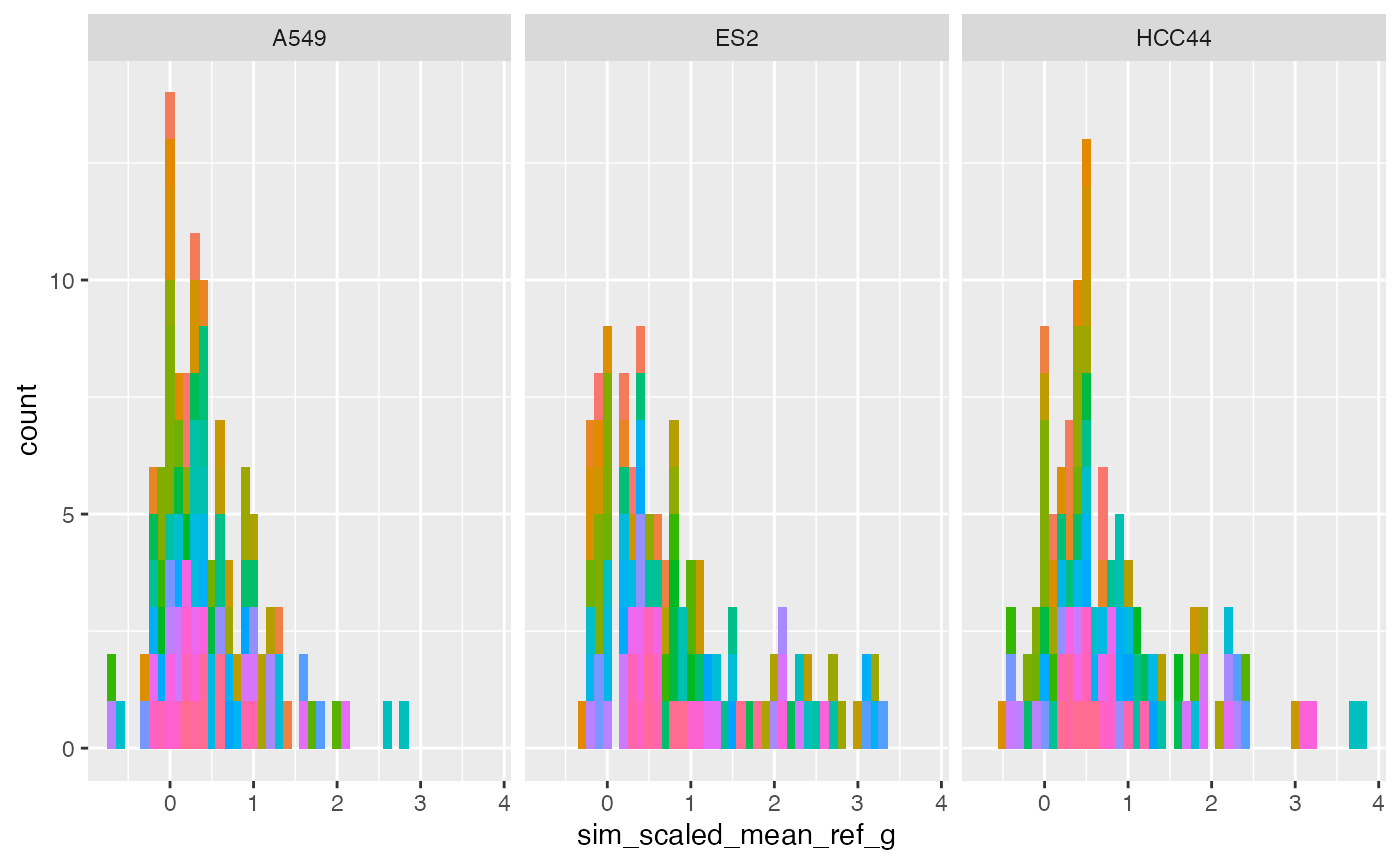
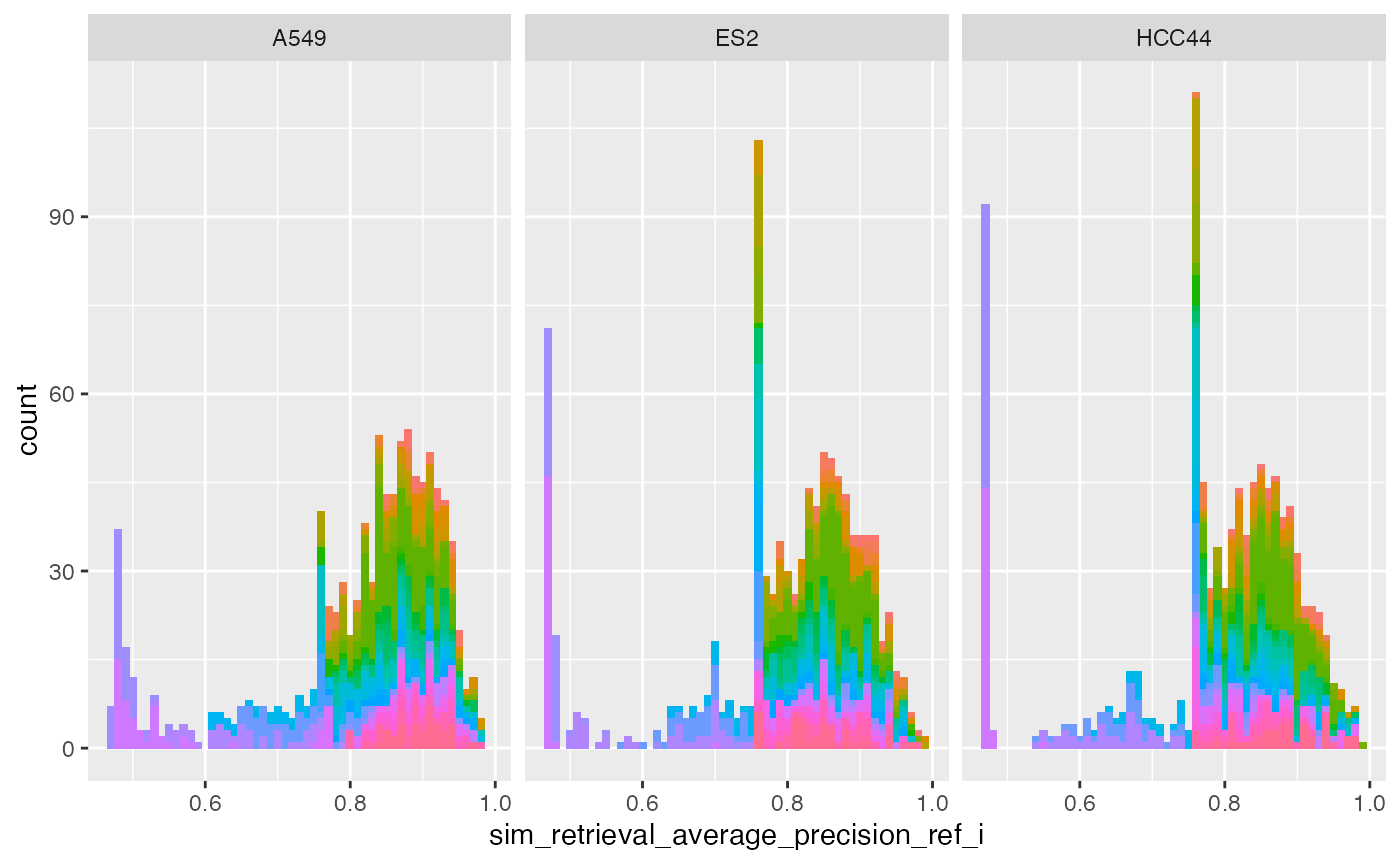
Built site for matric: 0.1.0@0c2fbc7

diff --git a/reference/sim_metrics_helper.html b/reference/sim_metrics_helper.html
@@ -1,0 +1,189 @@
+<!-- Generated by pkgdown: do not edit by hand -->
+<!DOCTYPE html>
+<html lang="en">
+  <head>
+  <meta charset="utf-8">
+<meta http-equiv="X-UA-Compatible" content="IE=edge">
+<meta name="viewport" content="width=device-width, initial-scale=1.0">
+
+<title>Helper function to compute metrics. — sim_metrics_helper • matric</title>
+
+
+<!-- jquery -->
+<script src="https://cdnjs.cloudflare.com/ajax/libs/jquery/3.4.1/jquery.min.js" integrity="sha256-CSXorXvZcTkaix6Yvo6HppcZGetbYMGWSFlBw8HfCJo=" crossorigin="anonymous"></script>
+<!-- Bootstrap -->
+
+<link rel="stylesheet" href="https://cdnjs.cloudflare.com/ajax/libs/twitter-bootstrap/3.4.1/css/bootstrap.min.css" integrity="sha256-bZLfwXAP04zRMK2BjiO8iu9pf4FbLqX6zitd+tIvLhE=" crossorigin="anonymous" />
+
+<script src="https://cdnjs.cloudflare.com/ajax/libs/twitter-bootstrap/3.4.1/js/bootstrap.min.js" integrity="sha256-nuL8/2cJ5NDSSwnKD8VqreErSWHtnEP9E7AySL+1ev4=" crossorigin="anonymous"></script>
+
+<!-- bootstrap-toc -->
+<link rel="stylesheet" href="../bootstrap-toc.css">
+<script src="../bootstrap-toc.js"></script>
+
+<!-- Font Awesome icons -->
+<link rel="stylesheet" href="https://cdnjs.cloudflare.com/ajax/libs/font-awesome/5.12.1/css/all.min.css" integrity="sha256-mmgLkCYLUQbXn0B1SRqzHar6dCnv9oZFPEC1g1cwlkk=" crossorigin="anonymous" />
+<link rel="stylesheet" href="https://cdnjs.cloudflare.com/ajax/libs/font-awesome/5.12.1/css/v4-shims.min.css" integrity="sha256-wZjR52fzng1pJHwx4aV2AO3yyTOXrcDW7jBpJtTwVxw=" crossorigin="anonymous" />
+
+<!-- clipboard.js -->
+<script src="https://cdnjs.cloudflare.com/ajax/libs/clipboard.js/2.0.6/clipboard.min.js" integrity="sha256-inc5kl9MA1hkeYUt+EC3BhlIgyp/2jDIyBLS6k3UxPI=" crossorigin="anonymous"></script>
+
+<!-- headroom.js -->
+<script src="https://cdnjs.cloudflare.com/ajax/libs/headroom/0.11.0/headroom.min.js" integrity="sha256-AsUX4SJE1+yuDu5+mAVzJbuYNPHj/WroHuZ8Ir/CkE0=" crossorigin="anonymous"></script>
+<script src="https://cdnjs.cloudflare.com/ajax/libs/headroom/0.11.0/jQuery.headroom.min.js" integrity="sha256-ZX/yNShbjqsohH1k95liqY9Gd8uOiE1S4vZc+9KQ1K4=" crossorigin="anonymous"></script>
+
+<!-- pkgdown -->
+<link href="../pkgdown.css" rel="stylesheet">
+<script src="../pkgdown.js"></script>
+
+
+
+
+<meta property="og:title" content="Helper function to compute metrics. — sim_metrics_helper" />
+<meta property="og:description" content="sim_metrics_helper helps compute metrics by agrregating and
+scaling." />
+
+
+
+
+<!-- mathjax -->
+<script src="https://cdnjs.cloudflare.com/ajax/libs/mathjax/2.7.5/MathJax.js" integrity="sha256-nvJJv9wWKEm88qvoQl9ekL2J+k/RWIsaSScxxlsrv8k=" crossorigin="anonymous"></script>
+<script src="https://cdnjs.cloudflare.com/ajax/libs/mathjax/2.7.5/config/TeX-AMS-MML_HTMLorMML.js" integrity="sha256-84DKXVJXs0/F8OTMzX4UR909+jtl4G7SPypPavF+GfA=" crossorigin="anonymous"></script>
+
+<!--[if lt IE 9]>
+<script src="https://oss.maxcdn.com/html5shiv/3.7.3/html5shiv.min.js"></script>
+<script src="https://oss.maxcdn.com/respond/1.4.2/respond.min.js"></script>
+<![endif]-->
+
+
+
+  </head>
+
+  <body data-spy="scroll" data-target="#toc">
+    <div class="container template-reference-topic">
+      <header>
+      <div class="navbar navbar-default navbar-fixed-top" role="navigation">
+  <div class="container">
+    <div class="navbar-header">
+      <button type="button" class="navbar-toggle collapsed" data-toggle="collapse" data-target="#navbar" aria-expanded="false">
+        <span class="sr-only">Toggle navigation</span>
+        <span class="icon-bar"></span>
+        <span class="icon-bar"></span>
+        <span class="icon-bar"></span>
+      </button>
+      <span class="navbar-brand">
+        <a class="navbar-link" href="../index.html">matric</a>
+        <span class="version label label-default" data-toggle="tooltip" data-placement="bottom" title="Released version">0.1.0</span>
+      </span>
+    </div>
+
+    <div id="navbar" class="navbar-collapse collapse">
+      <ul class="nav navbar-nav">
+        <li>
+  <a href="../index.html">
+    <span class="fas fa-home fa-lg"></span>
+     
+  </a>
+</li>
+<li>
+  <a href="../articles/matric.html">Get started</a>
+</li>
+<li>
+  <a href="../reference/index.html">Reference</a>
+</li>
+      </ul>
+      <ul class="nav navbar-nav navbar-right">
+        <li>
+  <a href="https://github.com/shntnu/matric/">
+    <span class="fab fa-github fa-lg"></span>
+     
+  </a>
+</li>
+      </ul>
+      
+    </div><!--/.nav-collapse -->
+  </div><!--/.container -->
+</div><!--/.navbar -->
+
+      
+
+      </header>
+
+<div class="row">
+  <div class="col-md-9 contents">
+    <div class="page-header">
+    <h1>Helper function to compute metrics.</h1>
+    <small class="dont-index">Source: <a href='https://github.com/shntnu/matric/blob/master/R/sim_metrics.R'><code>R/sim_metrics.R</code></a></small>
+    <div class="hidden name"><code>sim_metrics_helper.Rd</code></div>
+    </div>
+
+    <div class="ref-description">
+    <p><code>sim_metrics_helper</code> helps compute metrics by agrregating and
+scaling.</p>
+    </div>
+
+    <pre class="usage"><span class='fu'>sim_metrics_helper</span><span class='op'>(</span>
+  <span class='va'>collated_sim</span>,
+  <span class='va'>sim_type_background</span>,
+  <span class='va'>summary_cols</span>,
+  <span class='va'>sim_type_replication</span>,
+  identifier <span class='op'>=</span> <span class='cn'>NULL</span>
+<span class='op'>)</span></pre>
+
+    <h2 class="hasAnchor" id="arguments"><a class="anchor" href="#arguments"></a>Arguments</h2>
+    <table class="ref-arguments">
+    <colgroup><col class="name" /><col class="desc" /></colgroup>
+    <tr>
+      <th>collated_sim</th>
+      <td><p>output of <code>sim_collated</code>, which is a data.frame with some attributes.</p></td>
+    </tr>
+    <tr>
+      <th>sim_type_background</th>
+      <td><p>character string specifying the background distributions for computing scaled metrics. This must be one of the strings <code>"non_rep"</code> or <code>"ref"</code>.</p></td>
+    </tr>
+    <tr>
+      <th>summary_cols</th>
+      <td><p>character list specifying columns by which to group similarities.</p></td>
+    </tr>
+    <tr>
+      <th>sim_type_replication</th>
+      <td><p>character string specifying the type of replication being measured. This must be one of the strings <code>"rep"</code> or <code>"rep_group"</code>.</p></td>
+    </tr>
+    <tr>
+      <th>identifier</th>
+      <td><p>character string specifying the identifier to add as a suffix to the columns containing scaled-aggregated metrics.</p></td>
+    </tr>
+    </table>
+
+    <h2 class="hasAnchor" id="value"><a class="anchor" href="#value"></a>Value</h2>
+
+    <p>data.frame of metrics.</p>
+
+  </div>
+  <div class="col-md-3 hidden-xs hidden-sm" id="pkgdown-sidebar">
+    <nav id="toc" data-toggle="toc" class="sticky-top">
+      <h2 data-toc-skip>Contents</h2>
+    </nav>
+  </div>
+</div>
+
+
+      <footer>
+      <div class="copyright">
+  <p>Developed by Shantanu Singh, Gregory Way.</p>
+</div>
+
+<div class="pkgdown">
+  <p>Site built with <a href="https://pkgdown.r-lib.org/">pkgdown</a> 1.6.1.</p>
+</div>
+
+      </footer>
+   </div>
+
+  
+
+
+  </body>
+</html>
+
+

diff --git a/articles/matric.html b/articles/matric.html
@@ -232,17 +232,31 @@
   <span class="fu"><a href="https://ggplot2.tidyverse.org/reference/facet_wrap.html">facet_wrap</a></span><span class="op">(</span> <span class="op">~</span> <span class="va">Metadata_cell_line</span><span class="op">)</span> <span class="op">+</span>
   <span class="fu"><a href="https://ggplot2.tidyverse.org/reference/theme.html">theme</a></span><span class="op">(</span>legend.position<span class="op">=</span><span class="st">"none"</span><span class="op">)</span></code></pre></div>
 <p><img src="matric_files/figure-html/unnamed-chunk-10-1.png" width="700"></p>
+<div class="sourceCode" id="cb11"><pre class="downlit sourceCode r">
+<code class="sourceCode R"><span class="fu"><a href="https://ggplot2.tidyverse.org/reference/ggplot.html">ggplot</a></span><span class="op">(</span><span class="va">cellhealthmetrics</span><span class="op">$</span><span class="va">level_1_0</span>,
+       <span class="fu"><a href="https://ggplot2.tidyverse.org/reference/aes.html">aes</a></span><span class="op">(</span><span class="va">sim_retrieval_average_precision_ref_i</span>, fill <span class="op">=</span> <span class="va">Metadata_gene_name</span><span class="op">)</span><span class="op">)</span> <span class="op">+</span>
+  <span class="fu"><a href="https://ggplot2.tidyverse.org/reference/geom_histogram.html">geom_histogram</a></span><span class="op">(</span>binwidth <span class="op">=</span> <span class="fl">.01</span><span class="op">)</span> <span class="op">+</span>
+  <span class="fu"><a href="https://ggplot2.tidyverse.org/reference/facet_wrap.html">facet_wrap</a></span><span class="op">(</span> <span class="op">~</span> <span class="va">Metadata_cell_line</span><span class="op">)</span> <span class="op">+</span>
+  <span class="fu"><a href="https://ggplot2.tidyverse.org/reference/theme.html">theme</a></span><span class="op">(</span>legend.position<span class="op">=</span><span class="st">"none"</span><span class="op">)</span></code></pre></div>
+<p><img src="matric_files/figure-html/unnamed-chunk-11-1.png" width="700"></p>
 </div>
 <div id="per-group-level-2-1" class="section level2">
 <h2 class="hasAnchor">
 <a href="#per-group-level-2-1" class="anchor"></a>Per group (Level 2)</h2>
-<div class="sourceCode" id="cb11"><pre class="downlit sourceCode r">
+<div class="sourceCode" id="cb12"><pre class="downlit sourceCode r">
 <code class="sourceCode R"><span class="fu"><a href="https://ggplot2.tidyverse.org/reference/ggplot.html">ggplot</a></span><span class="op">(</span><span class="va">cellhealthmetrics</span><span class="op">$</span><span class="va">level_2_1</span>,
        <span class="fu"><a href="https://ggplot2.tidyverse.org/reference/aes.html">aes</a></span><span class="op">(</span><span class="va">sim_scaled_mean_ref_g</span>, fill <span class="op">=</span> <span class="va">Metadata_gene_name</span><span class="op">)</span><span class="op">)</span> <span class="op">+</span>
   <span class="fu"><a href="https://ggplot2.tidyverse.org/reference/geom_histogram.html">geom_histogram</a></span><span class="op">(</span>binwidth <span class="op">=</span> <span class="fl">.1</span><span class="op">)</span> <span class="op">+</span>
   <span class="fu"><a href="https://ggplot2.tidyverse.org/reference/facet_wrap.html">facet_wrap</a></span><span class="op">(</span> <span class="op">~</span> <span class="va">Metadata_cell_line</span><span class="op">)</span> <span class="op">+</span>
   <span class="fu"><a href="https://ggplot2.tidyverse.org/reference/theme.html">theme</a></span><span class="op">(</span>legend.position<span class="op">=</span><span class="st">"none"</span><span class="op">)</span></code></pre></div>
-<p><img src="matric_files/figure-html/unnamed-chunk-11-1.png" width="700"></p>
+<p><img src="matric_files/figure-html/unnamed-chunk-12-1.png" width="700"></p>
+<div class="sourceCode" id="cb13"><pre class="downlit sourceCode r">
+<code class="sourceCode R"><span class="fu"><a href="https://ggplot2.tidyverse.org/reference/ggplot.html">ggplot</a></span><span class="op">(</span><span class="va">cellhealthmetrics</span><span class="op">$</span><span class="va">level_2_1</span>,
+       <span class="fu"><a href="https://ggplot2.tidyverse.org/reference/aes.html">aes</a></span><span class="op">(</span><span class="va">sim_retrieval_average_precision_ref_g</span>, fill <span class="op">=</span> <span class="va">Metadata_gene_name</span><span class="op">)</span><span class="op">)</span> <span class="op">+</span>
+  <span class="fu"><a href="https://ggplot2.tidyverse.org/reference/geom_histogram.html">geom_histogram</a></span><span class="op">(</span>binwidth <span class="op">=</span> <span class="fl">.02</span><span class="op">)</span> <span class="op">+</span>
+  <span class="fu"><a href="https://ggplot2.tidyverse.org/reference/facet_wrap.html">facet_wrap</a></span><span class="op">(</span> <span class="op">~</span> <span class="va">Metadata_cell_line</span><span class="op">)</span> <span class="op">+</span>
+  <span class="fu"><a href="https://ggplot2.tidyverse.org/reference/theme.html">theme</a></span><span class="op">(</span>legend.position<span class="op">=</span><span class="st">"none"</span><span class="op">)</span></code></pre></div>
+<p><img src="matric_files/figure-html/unnamed-chunk-13-1.png" width="700"></p>
 </div>
 </div>
   </div>

diff --git a/reference/sim_write.html b/reference/sim_write.html
@@ -156,10 +156,10 @@ attributes are saved as separate files.</p>
 <span class='op'>)</span>
 <span class='va'>sim_df</span> <span class='op'>&lt;-</span> <span class='fu'>matric</span><span class='fu'>::</span><span class='fu'><a href='sim_calculate.html'>sim_calculate</a></span><span class='op'>(</span><span class='va'>population</span>, method <span class='op'>=</span> <span class='st'>"pearson"</span><span class='op'>)</span>
 <span class='va'>sim_df</span> <span class='op'>%&gt;%</span> <span class='fu'>matric</span><span class='fu'>::</span><span class='fu'>sim_write</span><span class='op'>(</span><span class='st'>"/tmp/test"</span>, file_format <span class='op'>=</span> <span class='st'>"csv"</span><span class='op'>)</span>
-</div><div class='output co'>#&gt; INFO [2021-08-27 12:11:00] Creating /tmp/test ...
-#&gt; INFO [2021-08-27 12:11:00] Writing /tmp/test/test.csv ...
-#&gt; INFO [2021-08-27 12:11:00] Writing /tmp/test/test_metadata.csv ...
-#&gt; INFO [2021-08-27 12:11:00] Writing /tmp/test/test_metadata.json ...</div><div class='output co'>#&gt; NULL</div><div class='input'><span class='fu'>readr</span><span class='fu'>::</span><span class='fu'><a href='https://readr.tidyverse.org/reference/read_delim.html'>read_csv</a></span><span class='op'>(</span><span class='st'>"/tmp/test/test.csv"</span><span class='op'>)</span>
+</div><div class='output co'>#&gt; INFO [2021-08-28 23:51:38] Creating /tmp/test ...
+#&gt; INFO [2021-08-28 23:51:38] Writing /tmp/test/test.csv ...
+#&gt; INFO [2021-08-28 23:51:38] Writing /tmp/test/test_metadata.csv ...
+#&gt; INFO [2021-08-28 23:51:38] Writing /tmp/test/test_metadata.json ...</div><div class='output co'>#&gt; NULL</div><div class='input'><span class='fu'>readr</span><span class='fu'>::</span><span class='fu'><a href='https://readr.tidyverse.org/reference/read_delim.html'>read_csv</a></span><span class='op'>(</span><span class='st'>"/tmp/test/test.csv"</span><span class='op'>)</span>
 </div><div class='output co'>#&gt; <span class='message'><span style='font-weight: bold;'>Rows: </span><span style='color: #0000BB;'>12</span> <span style='font-weight: bold;'>Columns: </span><span style='color: #0000BB;'>3</span></span></div><div class='output co'>#&gt; <span class='message'><span style='color: #00BBBB;'>──</span> <span style='font-weight: bold;'>Column specification</span> <span style='color: #00BBBB;'>────────────────────────────────────────────────────────</span></span>
 #&gt; <span class='message'><span style='font-weight: bold;'>Delimiter:</span> ","</span>
 #&gt; <span class='message'><span style='color: #00BB00;'>dbl</span> (3): id1, id2, sim</span></div><div class='output co'>#&gt; <span class='message'></span>
@@ -196,7 +196,7 @@ attributes are saved as separate files.</p>
 #&gt; [1] "pearson"
 #&gt; 
 #&gt; </div><div class='input'><span class='va'>sim_df</span> <span class='op'>%&gt;%</span> <span class='fu'>matric</span><span class='fu'>::</span><span class='fu'>sim_write</span><span class='op'>(</span><span class='st'>"/tmp/test.parquet"</span><span class='op'>)</span>
-</div><div class='output co'>#&gt; INFO [2021-08-27 12:11:01] Writing /tmp/test.parquet ...</div><div class='output co'>#&gt; NULL</div><div class='input'><span class='va'>sim_df_in</span> <span class='op'>&lt;-</span> <span class='fu'>arrow</span><span class='fu'>::</span><span class='fu'><a href='https://arrow.apache.org/docs/r//reference/read_parquet.html'>read_parquet</a></span><span class='op'>(</span><span class='st'>"/tmp/test.parquet"</span><span class='op'>)</span>
+</div><div class='output co'>#&gt; INFO [2021-08-28 23:51:38] Writing /tmp/test.parquet ...</div><div class='output co'>#&gt; NULL</div><div class='input'><span class='va'>sim_df_in</span> <span class='op'>&lt;-</span> <span class='fu'>arrow</span><span class='fu'>::</span><span class='fu'><a href='https://arrow.apache.org/docs/r//reference/read_parquet.html'>read_parquet</a></span><span class='op'>(</span><span class='st'>"/tmp/test.parquet"</span><span class='op'>)</span>
 <span class='fu'><a href='https://rdrr.io/r/base/attr.html'>attr</a></span><span class='op'>(</span><span class='va'>sim_df_in</span>, <span class='st'>"row_metadata"</span><span class='op'>)</span>
 </div><div class='output co'>#&gt; <span style='color: #949494;'># A tibble: 4 × 2</span>
 #&gt;      id Metadata_group

diff --git a/reference/sim_read.html b/reference/sim_read.html
@@ -149,14 +149,14 @@
 <span class='op'>)</span>
 <span class='va'>sim_df</span> <span class='op'>&lt;-</span> <span class='fu'><a href='sim_calculate.html'>sim_calculate</a></span><span class='op'>(</span><span class='va'>population</span>, method <span class='op'>=</span> <span class='st'>"pearson"</span><span class='op'>)</span>
 <span class='va'>sim_df</span> <span class='op'>%&gt;%</span> <span class='fu'><a href='sim_write.html'>sim_write</a></span><span class='op'>(</span><span class='st'>"/tmp/test"</span>, file_format <span class='op'>=</span> <span class='st'>"csv"</span><span class='op'>)</span>
-</div><div class='output co'>#&gt; INFO [2021-08-27 12:10:57] Creating /tmp/test ...
-#&gt; INFO [2021-08-27 12:10:57] Writing /tmp/test/test.csv ...
-#&gt; INFO [2021-08-27 12:10:58] Writing /tmp/test/test_metadata.csv ...
-#&gt; INFO [2021-08-27 12:10:58] Writing /tmp/test/test_metadata.json ...</div><div class='output co'>#&gt; NULL</div><div class='input'><span class='va'>sim_df_csv</span> <span class='op'>&lt;-</span> <span class='fu'>sim_read</span><span class='op'>(</span><span class='st'>"/tmp/test"</span>, file_format <span class='op'>=</span> <span class='st'>"csv"</span><span class='op'>)</span>
-</div><div class='output co'>#&gt; INFO [2021-08-27 12:10:58] Reading /tmp/test/test.csv ...
-#&gt; INFO [2021-08-27 12:10:58] Reading /tmp/test/test_metadata.csv ...
-#&gt; INFO [2021-08-27 12:10:58] Reading /tmp/test/test_metadata.json ...</div><div class='input'><span class='va'>sim_df</span> <span class='op'>%&gt;%</span> <span class='fu'><a href='sim_write.html'>sim_write</a></span><span class='op'>(</span><span class='st'>"/tmp/test.parquet"</span><span class='op'>)</span>
-</div><div class='output co'>#&gt; INFO [2021-08-27 12:10:58] Writing /tmp/test.parquet ...</div><div class='output co'>#&gt; NULL</div><div class='input'><span class='va'>sim_df_parquet1</span> <span class='op'>&lt;-</span> <span class='fu'>sim_read</span><span class='op'>(</span><span class='st'>"/tmp/test.parquet"</span><span class='op'>)</span>
+</div><div class='output co'>#&gt; INFO [2021-08-28 23:51:35] Creating /tmp/test ...
+#&gt; INFO [2021-08-28 23:51:35] Writing /tmp/test/test.csv ...
+#&gt; INFO [2021-08-28 23:51:36] Writing /tmp/test/test_metadata.csv ...
+#&gt; INFO [2021-08-28 23:51:36] Writing /tmp/test/test_metadata.json ...</div><div class='output co'>#&gt; NULL</div><div class='input'><span class='va'>sim_df_csv</span> <span class='op'>&lt;-</span> <span class='fu'>sim_read</span><span class='op'>(</span><span class='st'>"/tmp/test"</span>, file_format <span class='op'>=</span> <span class='st'>"csv"</span><span class='op'>)</span>
+</div><div class='output co'>#&gt; INFO [2021-08-28 23:51:36] Reading /tmp/test/test.csv ...
+#&gt; INFO [2021-08-28 23:51:36] Reading /tmp/test/test_metadata.csv ...
+#&gt; INFO [2021-08-28 23:51:36] Reading /tmp/test/test_metadata.json ...</div><div class='input'><span class='va'>sim_df</span> <span class='op'>%&gt;%</span> <span class='fu'><a href='sim_write.html'>sim_write</a></span><span class='op'>(</span><span class='st'>"/tmp/test.parquet"</span><span class='op'>)</span>
+</div><div class='output co'>#&gt; INFO [2021-08-28 23:51:36] Writing /tmp/test.parquet ...</div><div class='output co'>#&gt; NULL</div><div class='input'><span class='va'>sim_df_parquet1</span> <span class='op'>&lt;-</span> <span class='fu'>sim_read</span><span class='op'>(</span><span class='st'>"/tmp/test.parquet"</span><span class='op'>)</span>
 <span class='va'>sim_df</span> <span class='op'>%&gt;%</span> <span class='fu'>arrow</span><span class='fu'>::</span><span class='fu'><a href='https://arrow.apache.org/docs/r//reference/write_parquet.html'>write_parquet</a></span><span class='op'>(</span><span class='st'>"/tmp/test.parquet"</span><span class='op'>)</span>
 <span class='va'>sim_df_parquet2</span> <span class='op'>&lt;-</span> <span class='fu'>arrow</span><span class='fu'>::</span><span class='fu'><a href='https://arrow.apache.org/docs/r//reference/read_parquet.html'>read_parquet</a></span><span class='op'>(</span><span class='st'>"/tmp/test.parquet"</span><span class='op'>)</span>
 <span class='fu'><a href='https://rdrr.io/r/base/all.html'>all</a></span><span class='op'>(</span><span class='va'>sim_df_parquet1</span> <span class='op'>==</span> <span class='va'>sim_df_parquet2</span><span class='op'>)</span>

diff --git a/reference/sim_metrics.html b/reference/sim_metrics.html
@@ -122,7 +122,7 @@
 
     <pre class="usage"><span class='fu'>sim_metrics</span><span class='op'>(</span>
   <span class='va'>collated_sim</span>,
-  <span class='va'>sim_type</span>,
+  <span class='va'>sim_type_background</span>,
   calculate_grouped <span class='op'>=</span> <span class='cn'>FALSE</span>,
   annotation_prefix <span class='op'>=</span> <span class='st'>"Metadata_"</span>
 <span class='op'>)</span></pre>
@@ -135,7 +135,7 @@
       <td><p>output of <code>sim_collated</code>, which is a data.frame with some attributes.</p></td>
     </tr>
     <tr>
-      <th>sim_type</th>
+      <th>sim_type_background</th>
       <td><p>character string specifying the background distributions for computing scaled metrics. This must be one of the strings <code>"non_rep"</code> or <code>"ref"</code>.</p></td>
     </tr>
     <tr>

diff --git a/reference/index.html b/reference/index.html
@@ -291,6 +291,12 @@ values in specific columns, and other constraints.</p></td>
           <p><code><a href="drop_annotation.html">drop_annotation()</a></code> </p>
         </td>
         <td><p>Drop row annotations.</p></td>
+      </tr><tr>
+        
+        <td>
+          <p><code><a href="sim_metrics_helper.html">sim_metrics_helper()</a></code> </p>
+        </td>
+        <td><p>Helper function to compute metrics.</p></td>
       </tr>
     </tbody><tbody>
       <tr>
